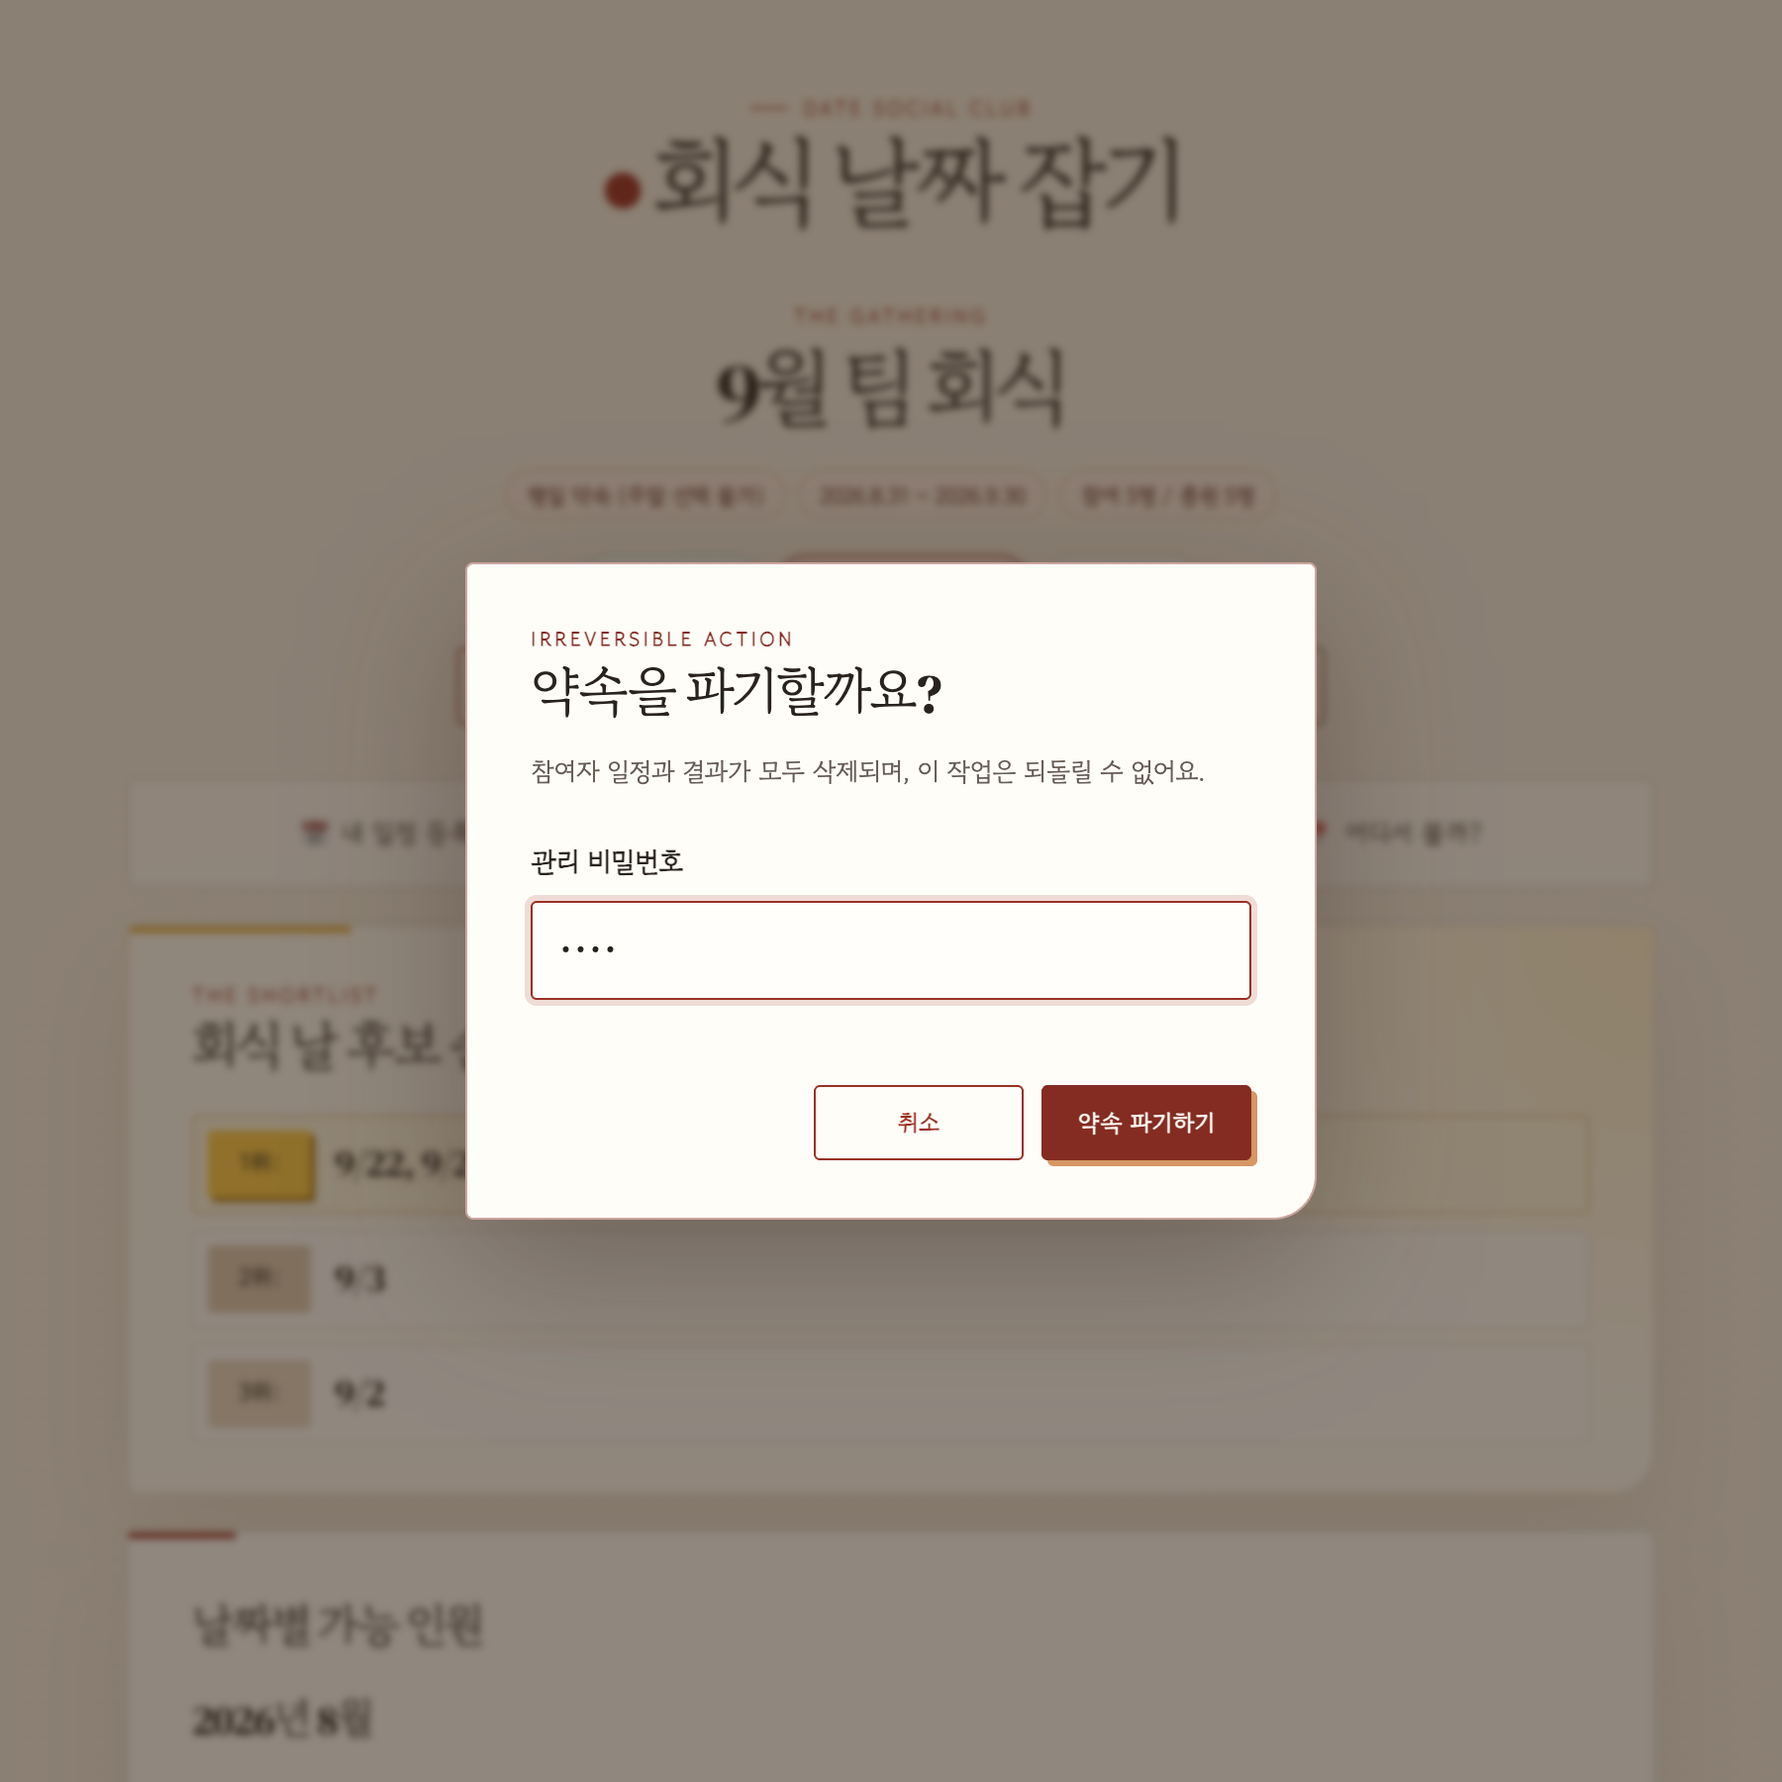
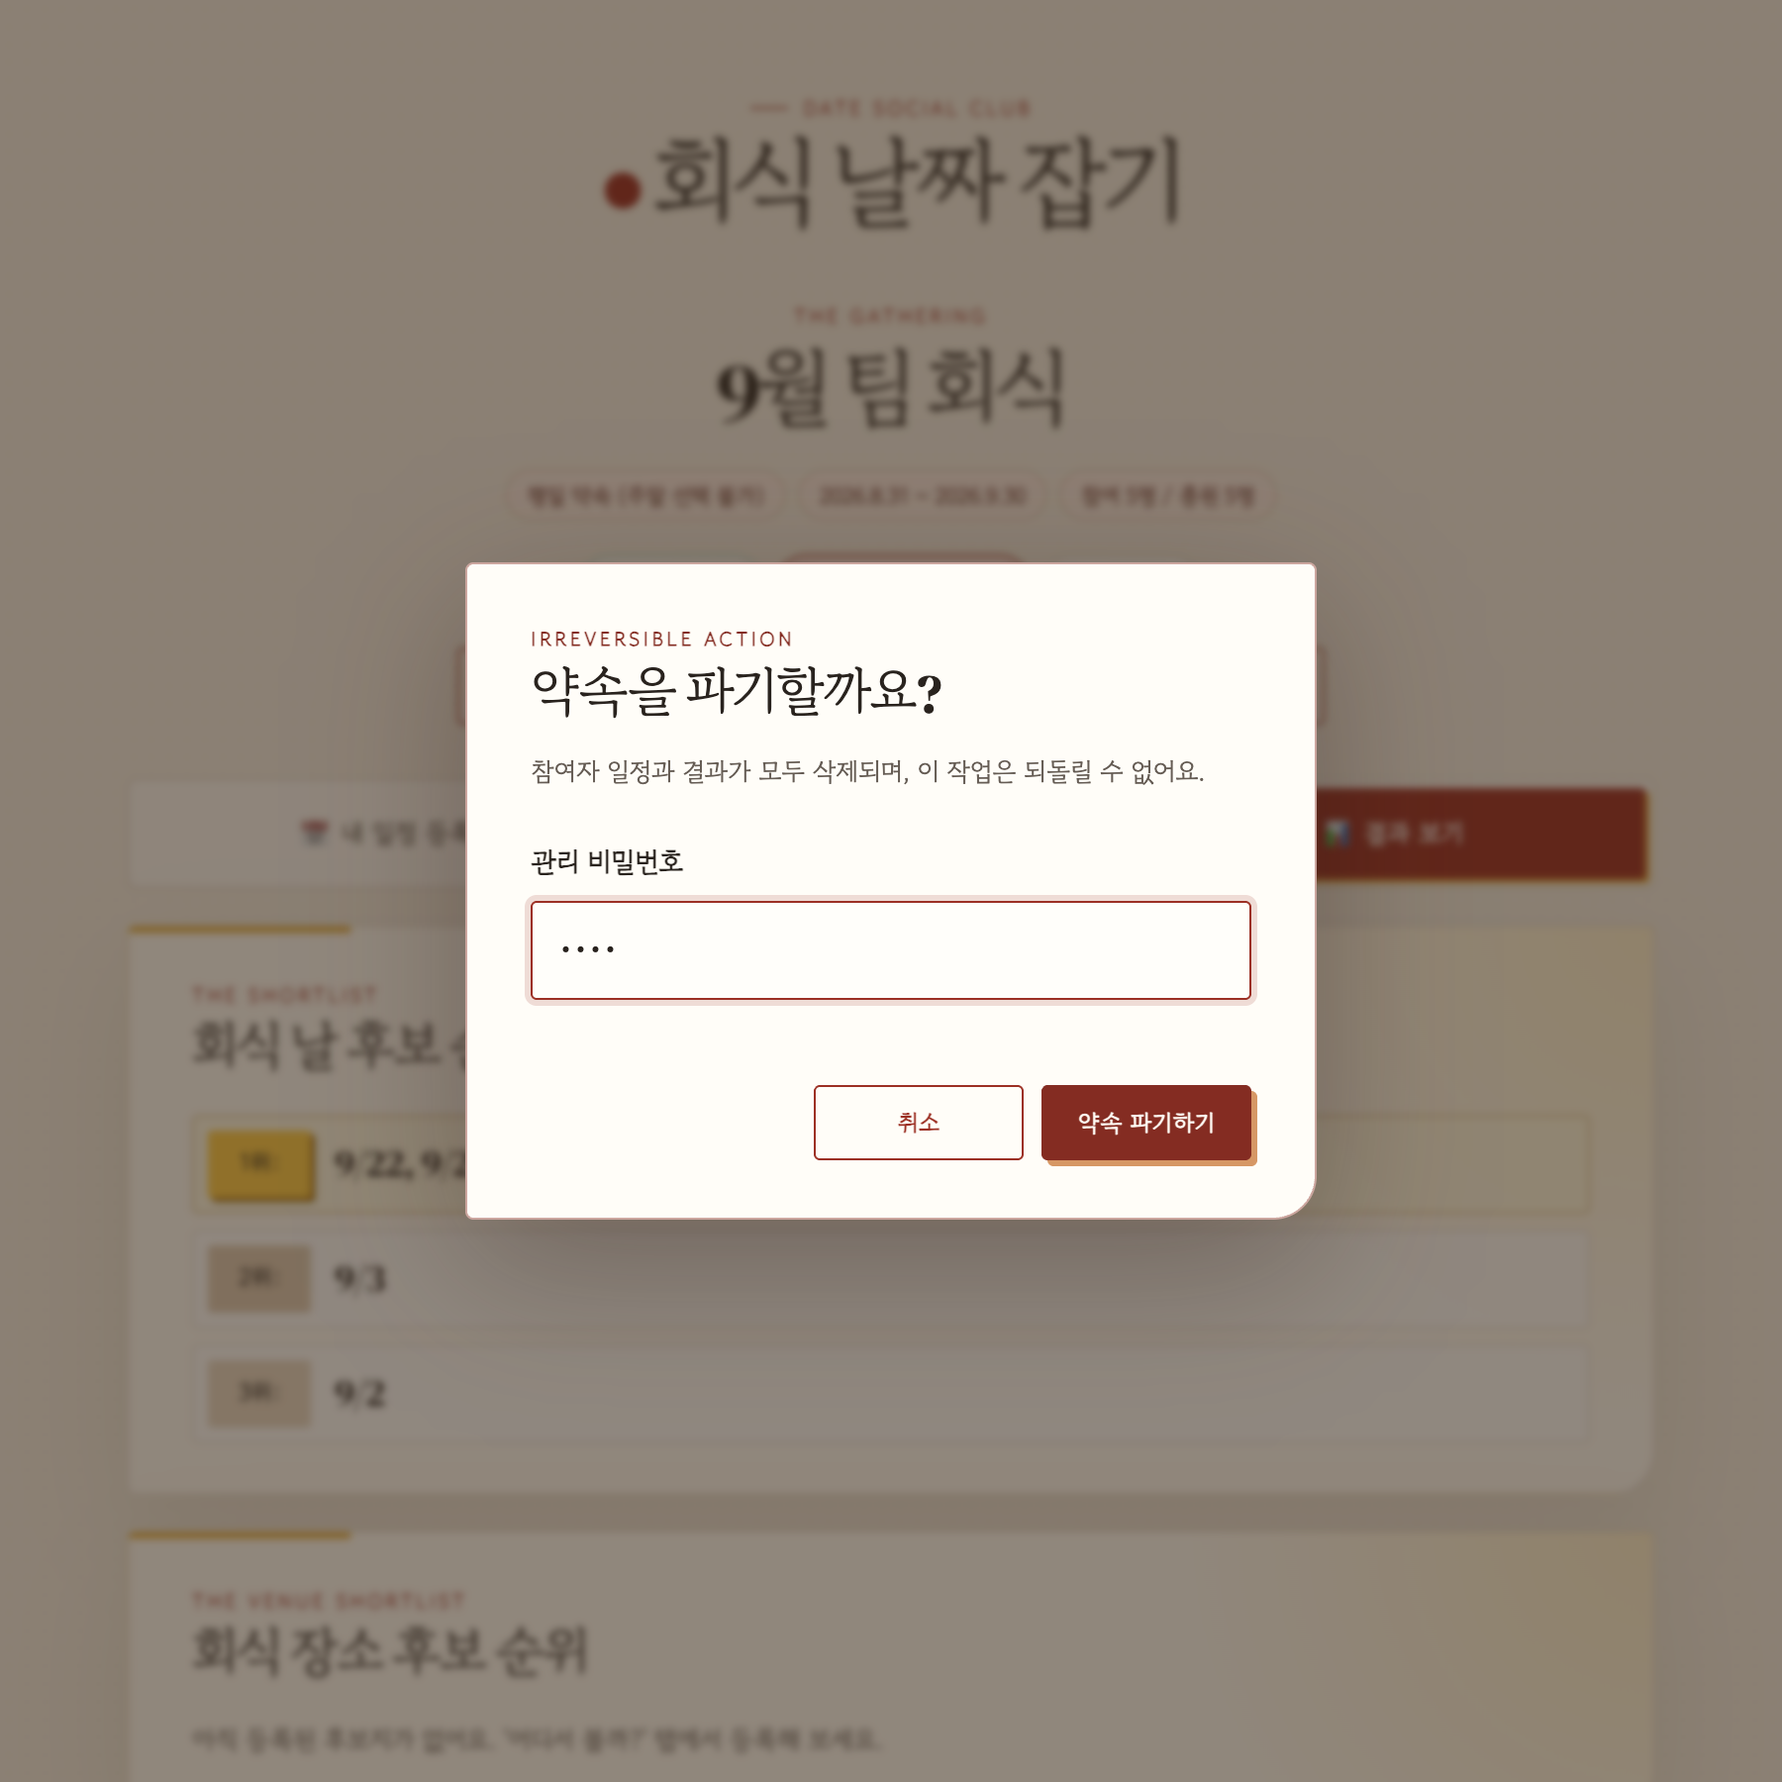
결과 탭에 장소 후보 순위 추가, 확정 시 확정 카드로 전환
- '결과 보기' 탭을 가장 우측으로 이동 (일정 등록 / 어디서 볼까? /
  결과 보기 순)
- 날짜 순위 카드 아래에 '회식 장소 후보 순위' 카드 신설: 좋아요 순
  상위 5곳(동점 같은 순위), 5곳 초과면 '전체 후보 보기' 팝업 제공
- 일정/장소가 확정되면 각 카드가 초록 '확정된 일정'(날짜·시간) /
  '확정된 장소'(이름·주소·지도 링크) 카드로 전환 — 확정 여부의
  네 가지 조합을 모두 반영

Claude-Session: https://claude.ai/code/session_018FYPPB8ih5HsNu38NPAV2M

diff --git a/public/js/event.js b/public/js/event.js
@@ -131,6 +131,23 @@ function formatCandidateDate(dateStr) {
 
 function renderCandidateRanking(counts) {
   const rankingEl = $('candidate-ranking');
+
+  // 일정이 확정되면 후보 순위 대신 확정된 일정을 보여준다.
+  if (isScheduleConfirmed()) {
+    $('date-ranking-card').classList.add('confirmed-mode');
+    $('date-ranking-kicker').textContent = 'CONFIRMED';
+    $('candidate-ranking-title').textContent = '확정된 일정';
+    rankingEl.innerHTML = `
+      <div class="confirmed-summary">
+        <p class="confirmed-summary-main">${esc(formatShortDate(eventData.confirmedDate))} ${esc(formatMeetTime(eventData.confirmedTime))}</p>
+        <p class="confirmed-summary-sub">${esc(eventData.confirmedDate)} · ${esc(eventData.confirmedTime)}</p>
+      </div>`;
+    return;
+  }
+  $('date-ranking-card').classList.remove('confirmed-mode');
+  $('date-ranking-kicker').textContent = 'THE SHORTLIST';
+  $('candidate-ranking-title').textContent = '회식 날 후보 순위';
+
   const rankedDates = Object.entries(counts)
     .filter(([, count]) => count > 0)
     .sort(([dateA, countA], [dateB, countB]) => countB - countA || dateA.localeCompare(dateB));
@@ -237,11 +254,73 @@ function renderVotePeople() {
     .join('');
 }
 
+// 장소 후보를 득표순 순위 행으로 그린다. (동점은 같은 순위)
+function placeRankingRows(places) {
+  let rank = 0;
+  let prevVotes = -1;
+  return places
+    .map((place, index) => {
+      const votes = (place.votes || []).length;
+      if (votes !== prevVotes) {
+        rank = index + 1;
+        prevVotes = votes;
+      }
+      return `
+        <div class="candidate-ranking-row rank-${Math.min(rank, 3)}">
+          <span class="candidate-rank-label">${rank}위</span>
+          <span class="candidate-rank-dates place-rank-name">${esc(place.name)}<small class="place-rank-votes">♥ ${votes}</small></span>
+        </div>`;
+    })
+    .join('');
+}
+
+// 결과 탭의 '회식 장소' 카드: 미확정=득표 상위 5곳 / 확정=확정 장소 레이아웃
+function renderPlaceRanking() {
+  const card = $('place-ranking-card');
+  const listEl = $('place-ranking');
+  const allButton = $('place-ranking-all');
+  const confirmed = confirmedPlace();
+
+  if (confirmed) {
+    card.classList.add('confirmed-mode');
+    $('place-ranking-kicker').textContent = 'CONFIRMED';
+    $('place-ranking-title').textContent = '확정된 장소';
+    allButton.hidden = true;
+    listEl.innerHTML = `
+      <div class="confirmed-summary">
+        <p class="confirmed-summary-main">${esc(confirmed.name)}</p>
+        <p class="confirmed-summary-sub">${esc(confirmed.roadAddress || confirmed.address || '')}</p>
+        <a class="confirmed-summary-link" href="${esc(placeMapLink(confirmed))}" target="_blank" rel="noopener noreferrer">네이버 지도에서 보기 ↗</a>
+      </div>`;
+    return;
+  }
+
+  card.classList.remove('confirmed-mode');
+  $('place-ranking-kicker').textContent = 'THE VENUE SHORTLIST';
+  $('place-ranking-title').textContent = '회식 장소 후보 순위';
+
+  const places = rankedPlaces();
+  if (places.length === 0) {
+    listEl.innerHTML = "<p class=\"candidate-ranking-empty\">아직 등록된 후보지가 없어요. '어디서 볼까?' 탭에서 등록해 보세요.</p>";
+    allButton.hidden = true;
+    return;
+  }
+  // 카드에는 좋아요 상위 5곳만, 나머지는 '전체 후보 보기' 팝업으로.
+  listEl.innerHTML = placeRankingRows(places.slice(0, 5));
+  allButton.hidden = places.length <= 5;
+}
+
+function openPlaceRankingDialog() {
+  $('place-ranking-full').innerHTML = placeRankingRows(rankedPlaces());
+  $('place-ranking-dialog').showModal();
+}
+
 function renderResult() {
   const counts = buildCounts();
   // 뱃지 농도: 1명이 선택할 때마다 (1/참여자 수)씩 진해진다.
   resultCal.setResult(counts, eventData.participants.length);
   renderCandidateRanking(counts);
+  renderPlaceRanking();
 
   $('result-people-count').textContent = eventData.participants.length;
   const wrap = $('result-people');
@@ -1471,6 +1550,9 @@ async function init() {
     const confirmButton = e.target.closest('[data-place-confirm]');
     if (confirmButton) openPlaceDialog(confirmButton.dataset.placeConfirm);
   });
+
+  $('place-ranking-all').addEventListener('click', openPlaceRankingDialog);
+  $('place-ranking-close').addEventListener('click', () => $('place-ranking-dialog').close());
 
   $('place-dialog-form').addEventListener('submit', submitPlaceConfirm);
   $('place-dialog-close').addEventListener('click', () => $('place-dialog').close());

diff --git a/public/event.html b/public/event.html
@@ -43,8 +43,8 @@
 
       <div class="tabs">
         <button type="button" id="tab-vote" class="active">📅 내 일정 등록</button>
-        <button type="button" id="tab-result">📊 결과 보기</button>
         <button type="button" id="tab-place" hidden>📍 어디서 볼까?</button>
+        <button type="button" id="tab-result">📊 결과 보기</button>
       </div>
 
       <!-- 내 일정 등록 -->
@@ -86,12 +86,23 @@
 
       <!-- 결과 보기 -->
       <section id="panel-result" hidden>
-        <section class="card candidate-ranking" aria-labelledby="candidate-ranking-title">
+        <section class="card candidate-ranking" id="date-ranking-card" aria-labelledby="candidate-ranking-title">
           <div class="candidate-ranking-head">
-            <p class="section-kicker">THE SHORTLIST</p>
+            <p class="section-kicker" id="date-ranking-kicker">THE SHORTLIST</p>
             <h2 id="candidate-ranking-title">회식 날 후보 순위</h2>
           </div>
           <div class="candidate-ranking-list" id="candidate-ranking" aria-live="polite"></div>
+        </section>
+
+        <section class="card candidate-ranking" id="place-ranking-card" aria-labelledby="place-ranking-title">
+          <div class="candidate-ranking-head">
+            <p class="section-kicker" id="place-ranking-kicker">THE VENUE SHORTLIST</p>
+            <h2 id="place-ranking-title">회식 장소 후보 순위</h2>
+          </div>
+          <div class="candidate-ranking-list" id="place-ranking" aria-live="polite"></div>
+          <div class="ranking-foot">
+            <button type="button" class="btn ghost small" id="place-ranking-all" hidden>전체 후보 보기</button>
+          </div>
         </section>
 
         <div class="card">
@@ -175,6 +186,17 @@
       <p class="empty-note">링크가 정확한지 확인해 주세요.</p>
       <p style="margin-top: 14px;"><a class="btn small" href="/">새 약속 만들기</a></p>
     </div>
+
+    <dialog class="cancel-dialog ranking-dialog" id="place-ranking-dialog" aria-labelledby="place-ranking-dialog-title">
+      <div class="cancel-dialog-form">
+        <p class="section-kicker">ALL CANDIDATES</p>
+        <h2 id="place-ranking-dialog-title">회식 장소 전체 후보</h2>
+        <div class="candidate-ranking-list ranking-dialog-list" id="place-ranking-full"></div>
+        <div class="cancel-dialog-actions">
+          <button type="button" class="btn ghost small" id="place-ranking-close">닫기</button>
+        </div>
+      </div>
+    </dialog>
 
     <dialog class="cancel-dialog confirm-dialog" id="place-dialog" aria-labelledby="place-dialog-title">
       <form class="cancel-dialog-form" id="place-dialog-form" novalidate>

diff --git a/public/css/style.css b/public/css/style.css
@@ -273,6 +273,24 @@ input:focus-visible { border-color: var(--accent); background: #fffefa; box-shad
 .share-advanced .share-method-no { color: var(--ink); background: var(--paper-deep); }
 .share-advanced .btn.block { min-height: 46px; margin-top: 4px; }
 
+/* 결과 탭: 확정 모드 카드 + 장소 순위 */
+.candidate-ranking.confirmed-mode { background-color: #f2f8f4; background-image: radial-gradient(circle at 100% 0, rgba(60, 179, 113, 0.16), transparent 32%); }
+.candidate-ranking.confirmed-mode::before { background: #3cb371; }
+.candidate-ranking.confirmed-mode .section-kicker { color: var(--success); }
+.confirmed-summary { margin-top: 4px; padding: 4px 2px 0; }
+.confirmed-summary-main { color: var(--ink); font-family: 'DM Serif Display', 'Gowun Batang', serif; font-size: clamp(24px, 5vw, 32px); font-weight: 400; letter-spacing: -0.04em; line-height: 1.25; word-break: keep-all; }
+.confirmed-summary-sub { margin-top: 5px; color: var(--ink-soft); font-size: 13px; word-break: keep-all; }
+.confirmed-summary-link { display: inline-block; margin-top: 10px; color: var(--success); font-size: 12px; font-weight: 700; text-decoration: none; }
+.confirmed-summary-link:hover { text-decoration: underline; }
+.place-rank-name { display: flex; align-items: baseline; gap: 8px; min-width: 0; }
+.place-rank-name > small.place-rank-votes { flex: 0 0 auto; color: var(--accent); font-family: 'Gowun Dodum', sans-serif; font-size: 12px; font-weight: 700; }
+.ranking-foot { display: flex; justify-content: flex-end; margin-top: 13px; }
+.ranking-foot:has(> [hidden]) { display: none; }
+.ranking-dialog { width: min(calc(100% - 32px), 460px); }
+.ranking-dialog .section-kicker { color: var(--mustard); }
+.ranking-dialog-list { max-height: 55vh; margin-top: 16px; overflow-y: auto; }
+.ranking-dialog .cancel-dialog-actions { margin-top: 18px; }
+
 /* 진행 단계 */
 .steps { display: flex; justify-content: center; gap: 6px; flex-wrap: wrap; margin-bottom: 16px; list-style: none; }
 .steps li { display: inline-flex; align-items: center; gap: 6px; padding: 5px 11px 5px 6px; color: #9c9086; border: 1px solid var(--line); border-radius: 999px; background: rgba(255, 253, 248, 0.6); font-size: 11px; font-weight: 700; }

diff --git a/README.md b/README.md
@@ -26,7 +26,8 @@
 | 공휴일 표시 | [hudy.co.kr](https://www.hudy.co.kr) 공휴일 API를 **최초 1회만 호출해 현재+미래 5개년(6개 연도)을 캐시에 저장**하고(D1 `holiday_cache` / 로컬 `.data/holidays-cache.json`), 약속을 만들 땐 캐시에서 표시 범위의 공휴일을 꺼내 기입합니다. 캐시가 없으면 내장 데이터(2025~2027)로 폴백합니다. |
 | 겹침 농도 뱃지 | 날짜별로 가능한 인원이 많을수록 와인 레드 `#9C3024` 뱃지가 진해집니다. **1명이 선택할 때마다 알파값이 (1/참여자 수)씩** 더해져 전원이 겹친 날은 완전히 진하게 표시됩니다. |
 | 최다 겹침 강조 | 가장 많은 인원이 겹친 날(공동 1등 포함)은 딥 골드 테두리의 골드 링과 4방향 스파클로 강조됩니다. 스파클은 우상단·좌하단 순서로 반복 재생됩니다. |
-| 회식 날 후보 순위 | 결과 탭 상단에서 가능 인원이 많은 순으로 1~3위 후보를 보여줍니다. 동점 날짜는 같은 순위에 묶어 `1위: 1/1, 1/2` 형식으로 표시합니다. |
+| 회식 날 후보 순위 | 결과 탭 상단에서 가능 인원이 많은 순으로 1~3위 후보를 보여줍니다. 동점 날짜는 같은 순위에 묶어 `1위: 1/1, 1/2` 형식으로 표시합니다. **일정이 확정되면 이 카드가 초록 '확정된 일정' 카드로 전환**되어 확정 날짜·시간을 보여줍니다. |
+| 회식 장소 후보 순위 | 결과 탭의 날짜 순위 카드 아래에서 **좋아요(투표) 상위 5곳**을 보여주고, 후보가 더 많으면 **전체 후보 보기** 버튼으로 전체 순위 팝업을 엽니다. **장소가 확정되면 초록 '확정된 장소' 카드로 전환**되어 이름·주소·지도 링크를 보여줍니다. |
 | 참여 정원 관리 | 참여자가 총원에 도달하면 새 이름 입력을 비활성화하고, API도 총원 초과 등록을 거부합니다. |
 | 일정 등록·수정 | 새 이름은 Enter로 먼저 참여 등록할 수 있습니다. 기존 일정은 참여자 칩을 선택해 수정하며, ✕로 삭제할 수 있습니다. |
 | 관리 비밀번호 | 약속을 만들 때 **숫자 4~6자리 관리 비밀번호**를 정합니다. **일정·장소 확정과 그 취소, 약속 파기**에 사용하며, 서버에는 약속별 랜덤 salt를 붙인 **SHA-256 해시로만 저장**되고 조회 API 응답에서도 제외됩니다. |
@@ -299,10 +300,16 @@ Microsoft Graph로 채널에 글을 쓰려면 위임 권한 `ChannelMessage.Send
 
 ## 4. 결과 보기
 
+
 **📊 결과 보기** 탭에서 날짜별로 몇 명이 가능한지 확인합니다.
 
 - 탭 바 바로 아래의 **회식 날 후보 순위** 카드에서 가능 인원이 많은 날짜를 1위부터 3위까지 먼저 확인할 수 있습니다.
   같은 가능 인원수의 날짜는 한 순위로 묶어 `1위: 9/22, 9/23, 9/24, 9/25`처럼 표시합니다. 아직 일정이 없으면 빈 상태 안내가 표시됩니다.
+- 그 아래 **회식 장소 후보 순위** 카드에서 '어디서 볼까?'에 모인 후보지를 **좋아요(투표) 순 상위 5곳**까지 보여줍니다(동점은 같은 순위).
+  후보가 5곳을 넘으면 카드 우하단의 **전체 후보 보기** 버튼으로 전체 순위 팝업을 열 수 있습니다.
+- **확정되면 카드가 전환됩니다** — 일정이 확정되면 날짜 카드가 초록 **확정된 일정**(날짜·시간) 카드로,
+  장소가 확정되면 장소 카드가 초록 **확정된 장소**(이름·주소·지도 링크) 카드로 바뀝니다.
+  일정·장소는 독립이라 넷 중 어떤 조합(후보/후보, 확정/후보, 후보/확정, 확정/확정)도 그대로 반영됩니다.
 - 가능 인원이 있는 날짜는 와인 레드 `#9C3024` 뱃지로 표시되며, **1명이 선택할 때마다 (1/참여자 수)만큼 진해집니다.**
   아래 화면은 참여자 5명 기준으로 1명(연함) ~ 5명(완전히 진함)이 겹친 모습입니다.
 - **가장 많이 겹친 날(공동 1등 포함)은 딥 골드 링과 4방향 골드 스파클**로 강조됩니다. 스파클은 뱃지의 우상단과 좌하단에서 번갈아 재생됩니다. (아래에서 5명이 겹친 9/22~9/25)
